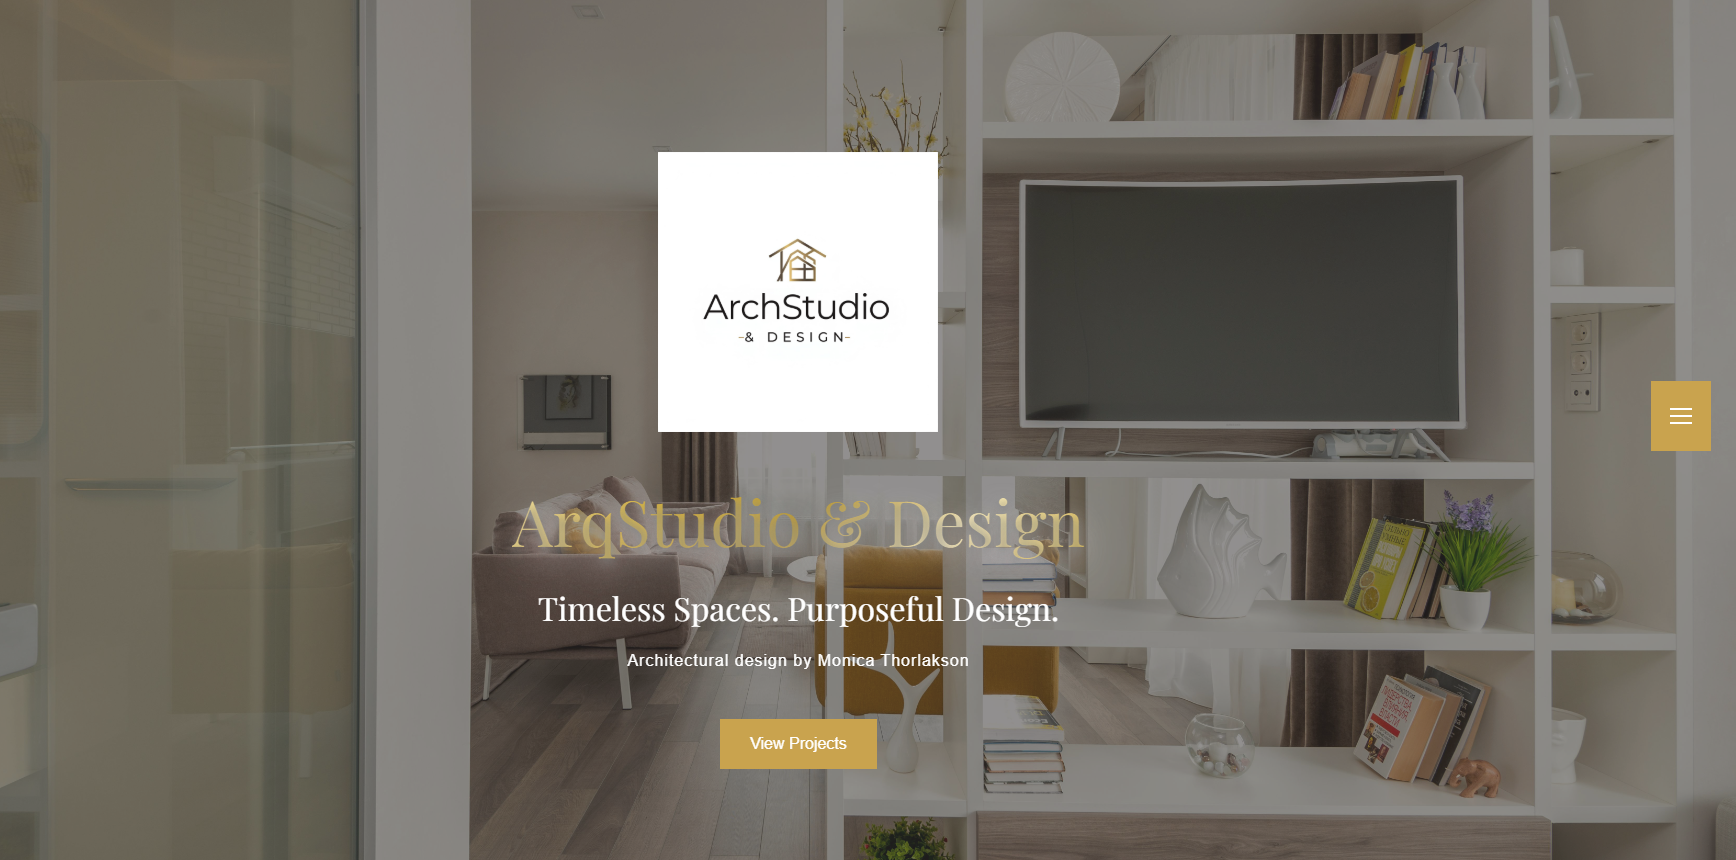
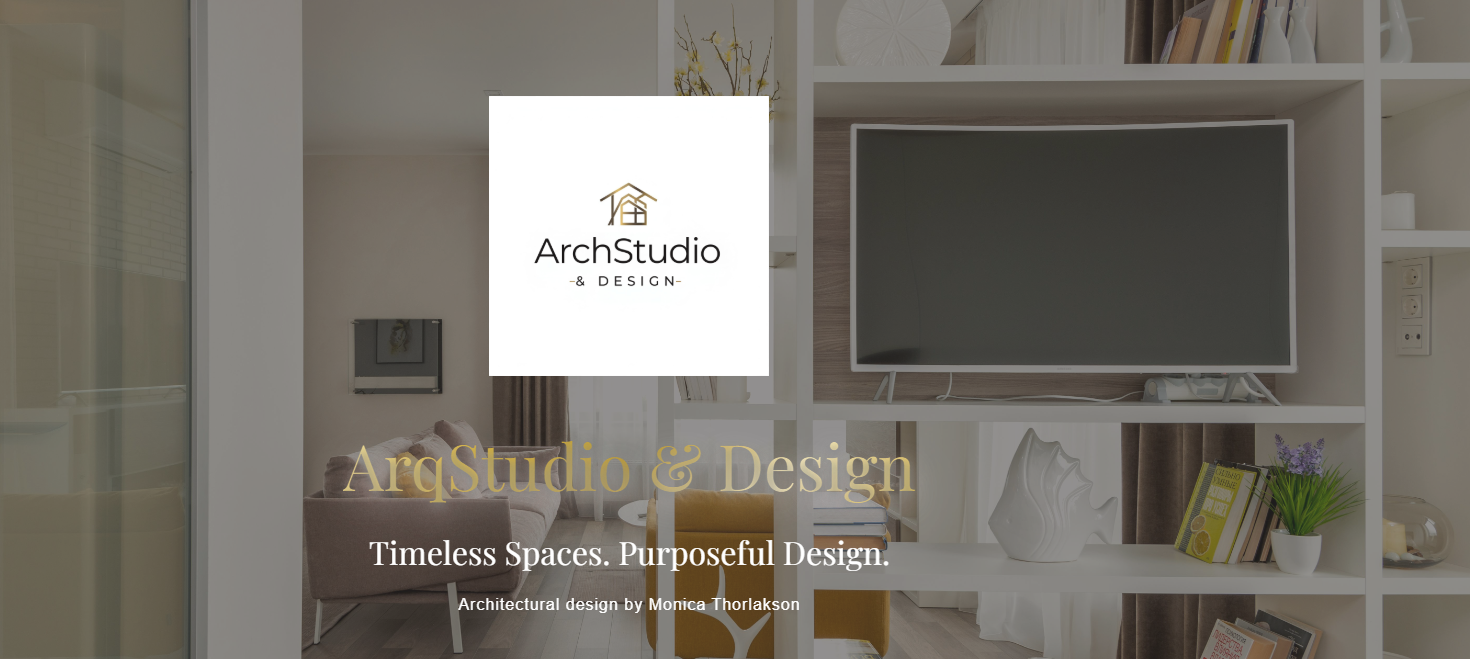
update move the card arqstudio

diff --git a/css/style.css b/css/style.css
@@ -536,6 +536,24 @@ textarea {
     transition: .2s;
 }
 
+.project-preview {
+    position: relative;
+    display: block;
+    min-width: 0;
+    min-height: 350px;
+    overflow: hidden;
+}
+
+.project-preview img {
+    position: absolute;
+    inset: 0;
+    display: block;
+    height: 100%;
+    width: 100%;
+    object-fit: cover;
+    object-position: 20% 0%;
+}
+
 .project-card:hover {
     transform: translateY(-4px);
     box-shadow: 0 24px 70px rgba(7, 24, 39, .1);

diff --git a/index.html b/index.html
@@ -144,7 +144,7 @@
                 aria-label="Abrir proyecto ArqStudio & Design"
               >
                 <img
-                  src="imagen/arqstudio.png"
+                  src="imagen/ArqStudio.png"
                   alt="Vista previa del sitio ArqStudio & Design"
                   loading="lazy"
                 />
